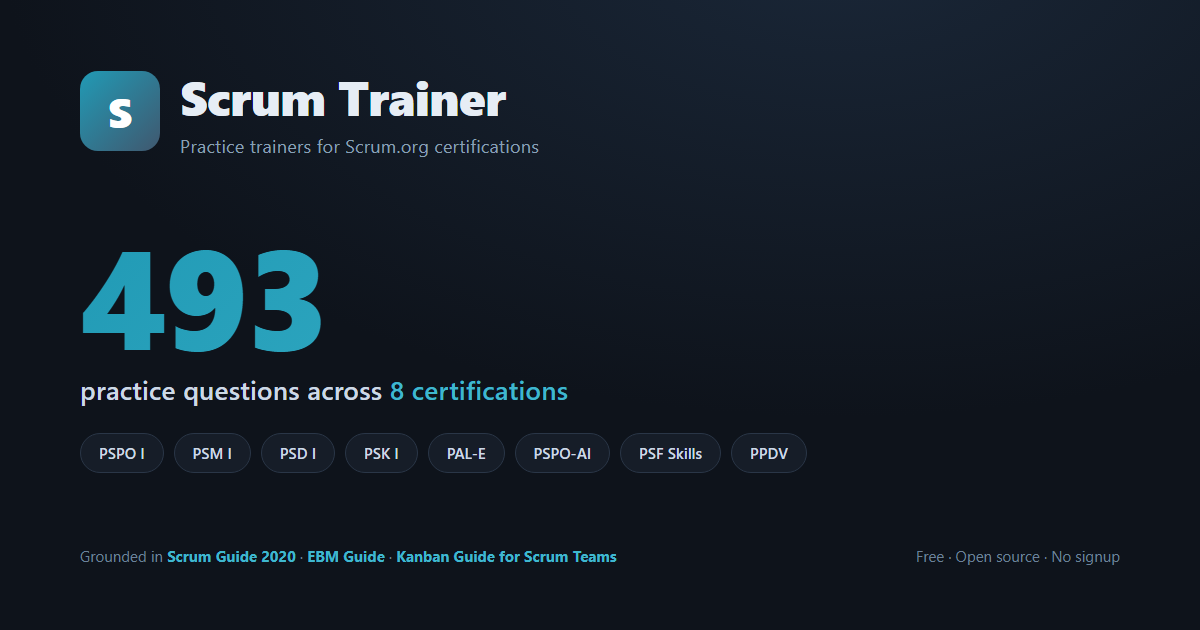
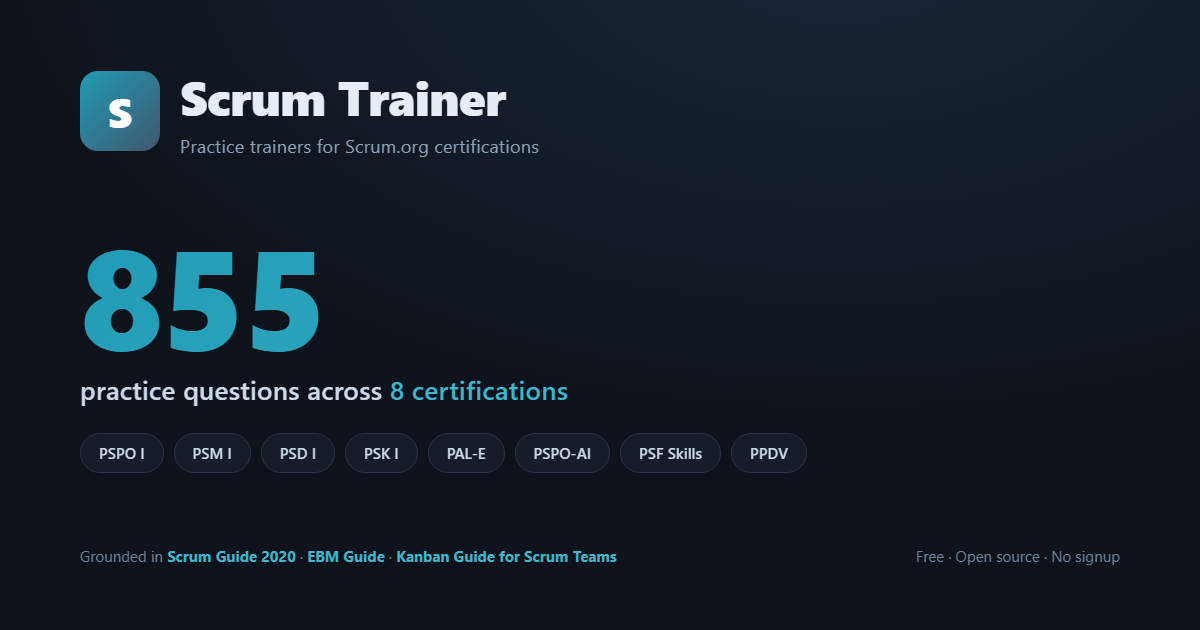
Update social card 493 -> 855 questions
After expanding all 7 cert banks (PSM I, PSD I, PAL-E, PSK I, PSF
Skills, PSPO-AI, PPDV), total questions went from 493 to 855. Update
the OG/Twitter meta descriptions, alt text, and the rendered
preview.png so social previews show the current number.

diff --git a/index.html b/index.html
@@ -4,18 +4,18 @@
 <meta charset="UTF-8">
 <meta name="viewport" content="width=device-width, initial-scale=1.0">
 <title>Scrum Trainer — certification practice</title>
-<meta name="description" content="Free open-source practice trainer for 8 Scrum.org certifications (PSPO I, PSM I, PSD I, PSK I, PAL-E, PSPO-AI, PSF Skills, PPDV). 493 questions grounded in Scrum Guide 2020, EBM Guide, and Kanban Guide for Scrum Teams.">
+<meta name="description" content="Free open-source practice trainer for 8 Scrum.org certifications (PSPO I, PSM I, PSD I, PSK I, PAL-E, PSPO-AI, PSF Skills, PPDV). 855 questions grounded in Scrum Guide 2020, EBM Guide, and Kanban Guide for Scrum Teams.">
 <meta property="og:type" content="website">
 <meta property="og:url" content="https://vvdmitrishin.github.io/scrum-trainer/">
 <meta property="og:title" content="Scrum Trainer — practice for Scrum.org certifications">
-<meta property="og:description" content="493 practice questions across 8 Scrum.org certifications. Grounded in Scrum Guide 2020, EBM Guide, and Kanban Guide for Scrum Teams. Free, open source, no signup.">
+<meta property="og:description" content="855 practice questions across 8 Scrum.org certifications. Grounded in Scrum Guide 2020, EBM Guide, and Kanban Guide for Scrum Teams. Free, open source, no signup.">
 <meta property="og:image" content="https://vvdmitrishin.github.io/scrum-trainer/preview.png">
 <meta property="og:image:width" content="1200">
 <meta property="og:image:height" content="630">
-<meta property="og:image:alt" content="Scrum Trainer — 493 practice questions across 8 Scrum.org certifications">
+<meta property="og:image:alt" content="Scrum Trainer — 855 practice questions across 8 Scrum.org certifications">
 <meta name="twitter:card" content="summary_large_image">
 <meta name="twitter:title" content="Scrum Trainer — practice for Scrum.org certifications">
-<meta name="twitter:description" content="493 practice questions across 8 Scrum.org certifications. Free, open source, no signup.">
+<meta name="twitter:description" content="855 practice questions across 8 Scrum.org certifications. Free, open source, no signup.">
 <meta name="twitter:image" content="https://vvdmitrishin.github.io/scrum-trainer/preview.png">
 <style>
   :root{

diff --git a/social-card.html b/social-card.html
@@ -68,7 +68,7 @@
 </div>
 
 <div class="center">
-  <div class="big">493</div>
+  <div class="big">855</div>
   <div class="label">practice questions across <span class="accent">8 certifications</span></div>
   <div class="chips">
     <span class="chip">PSPO I</span>